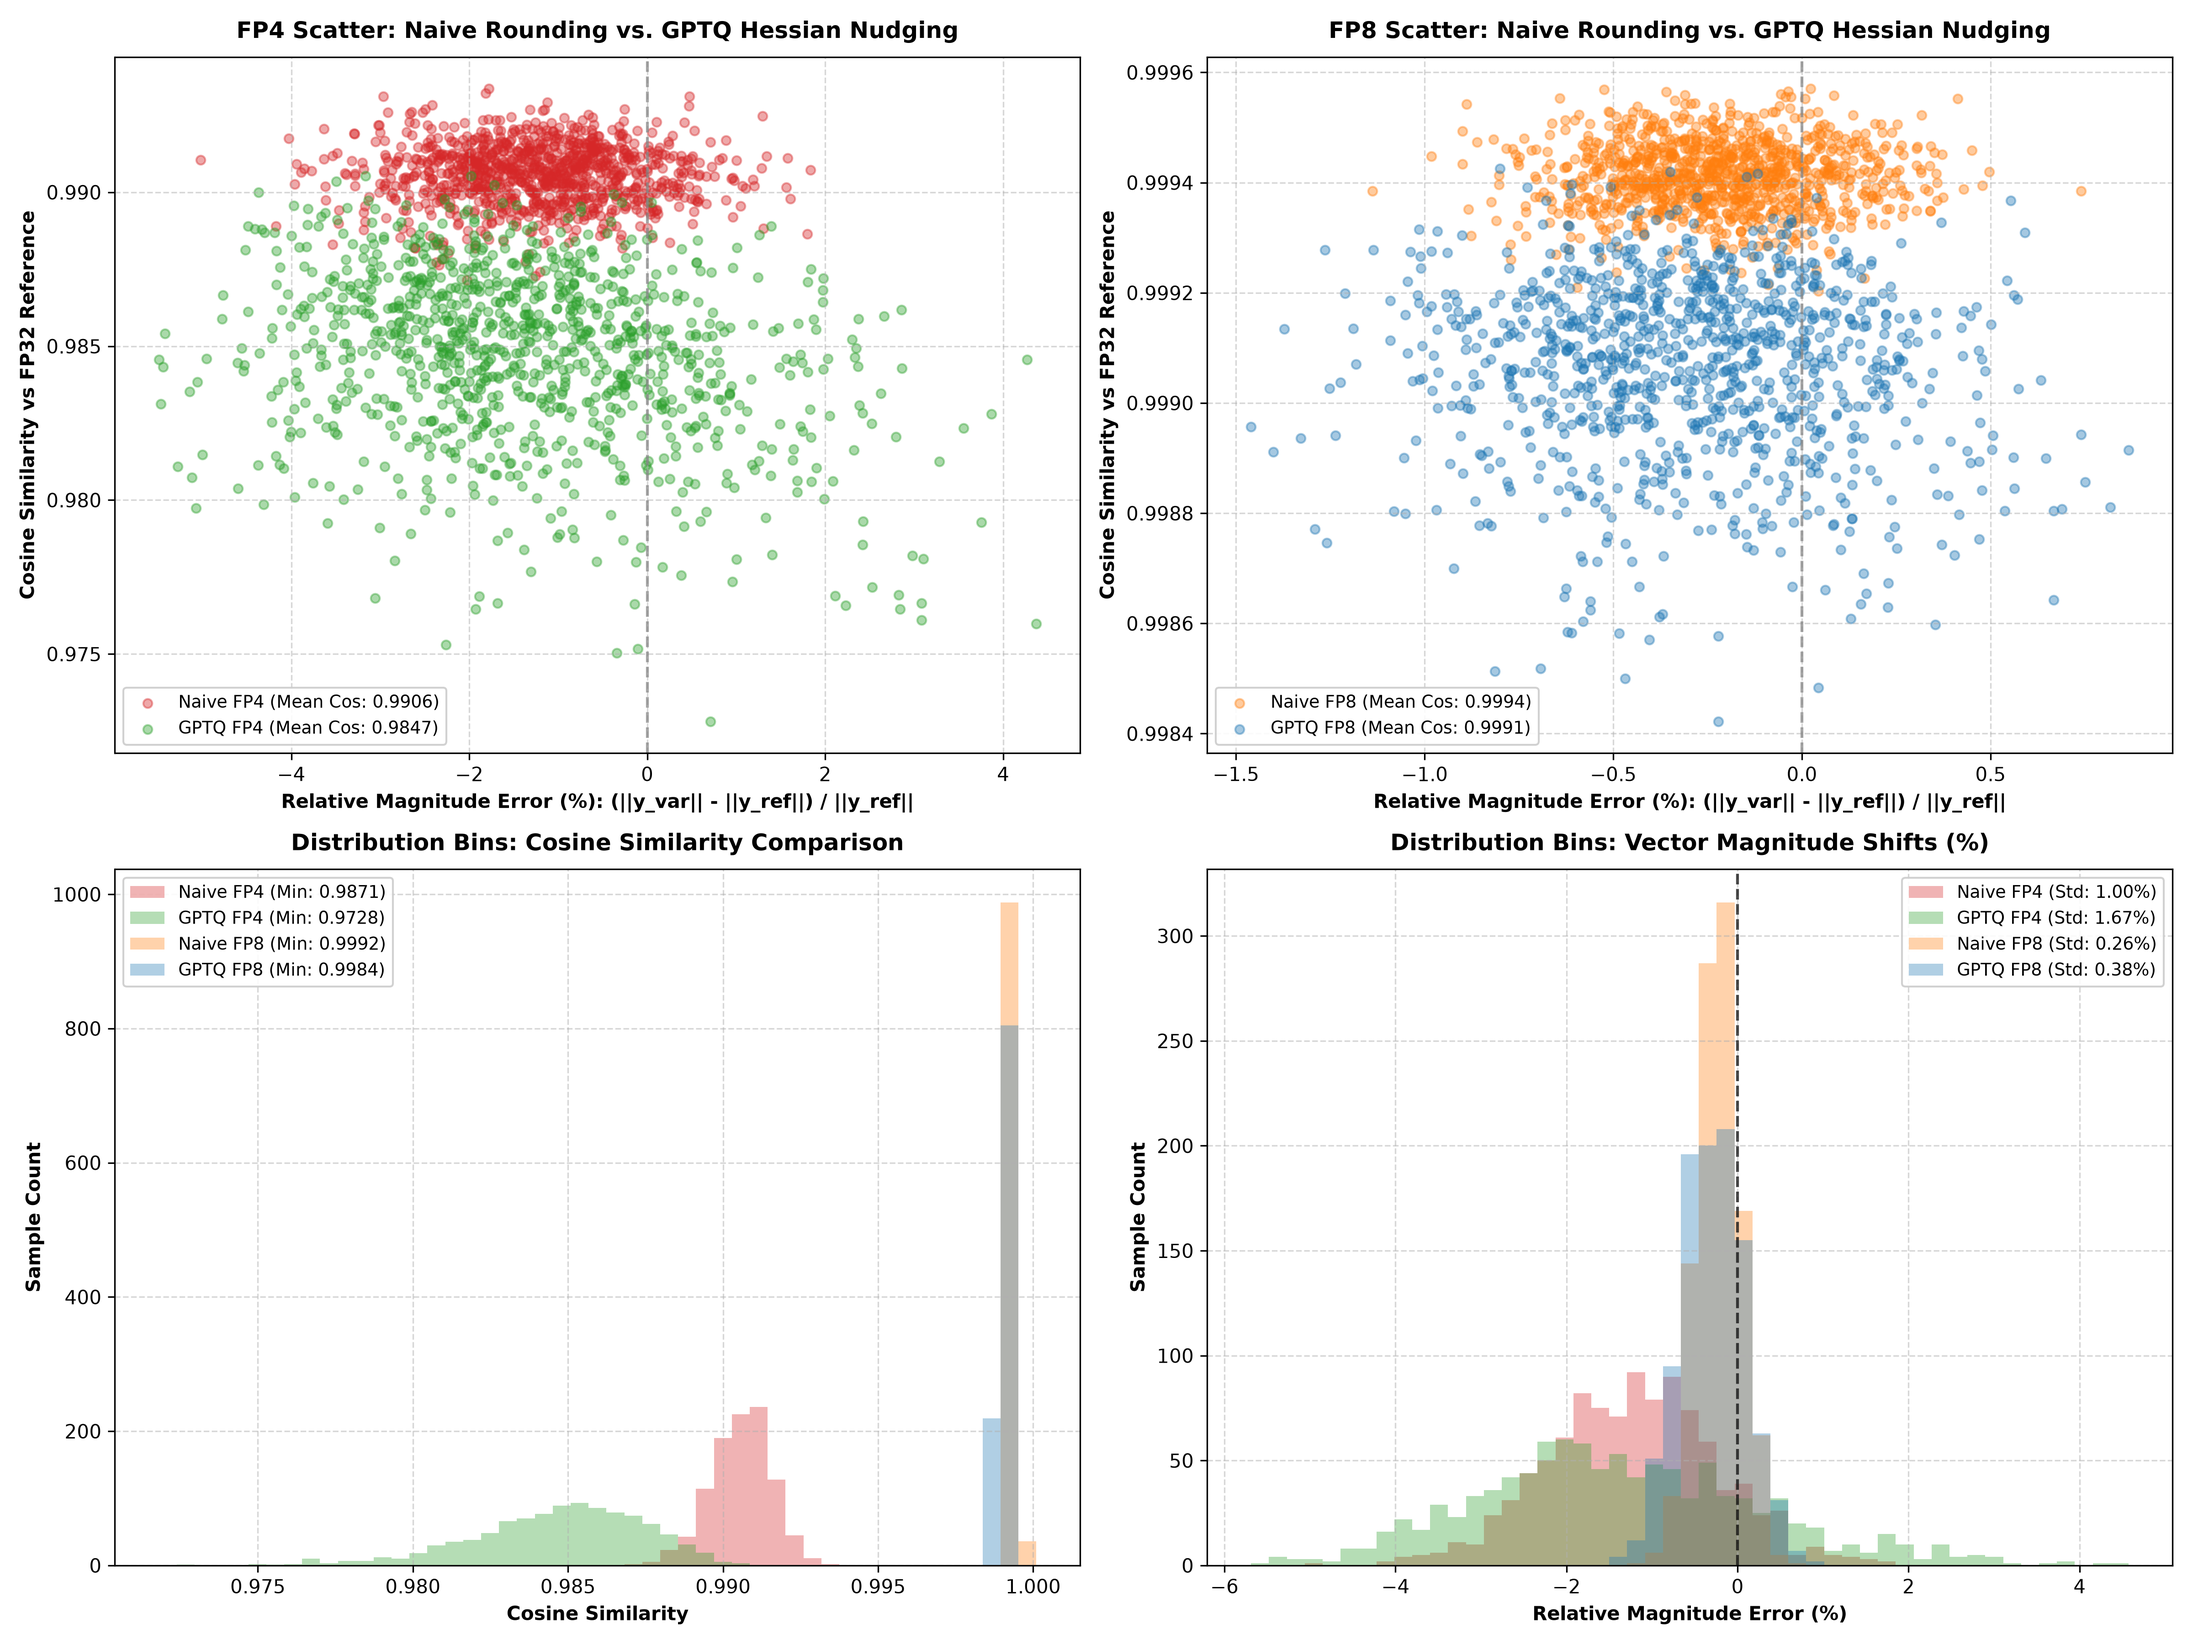
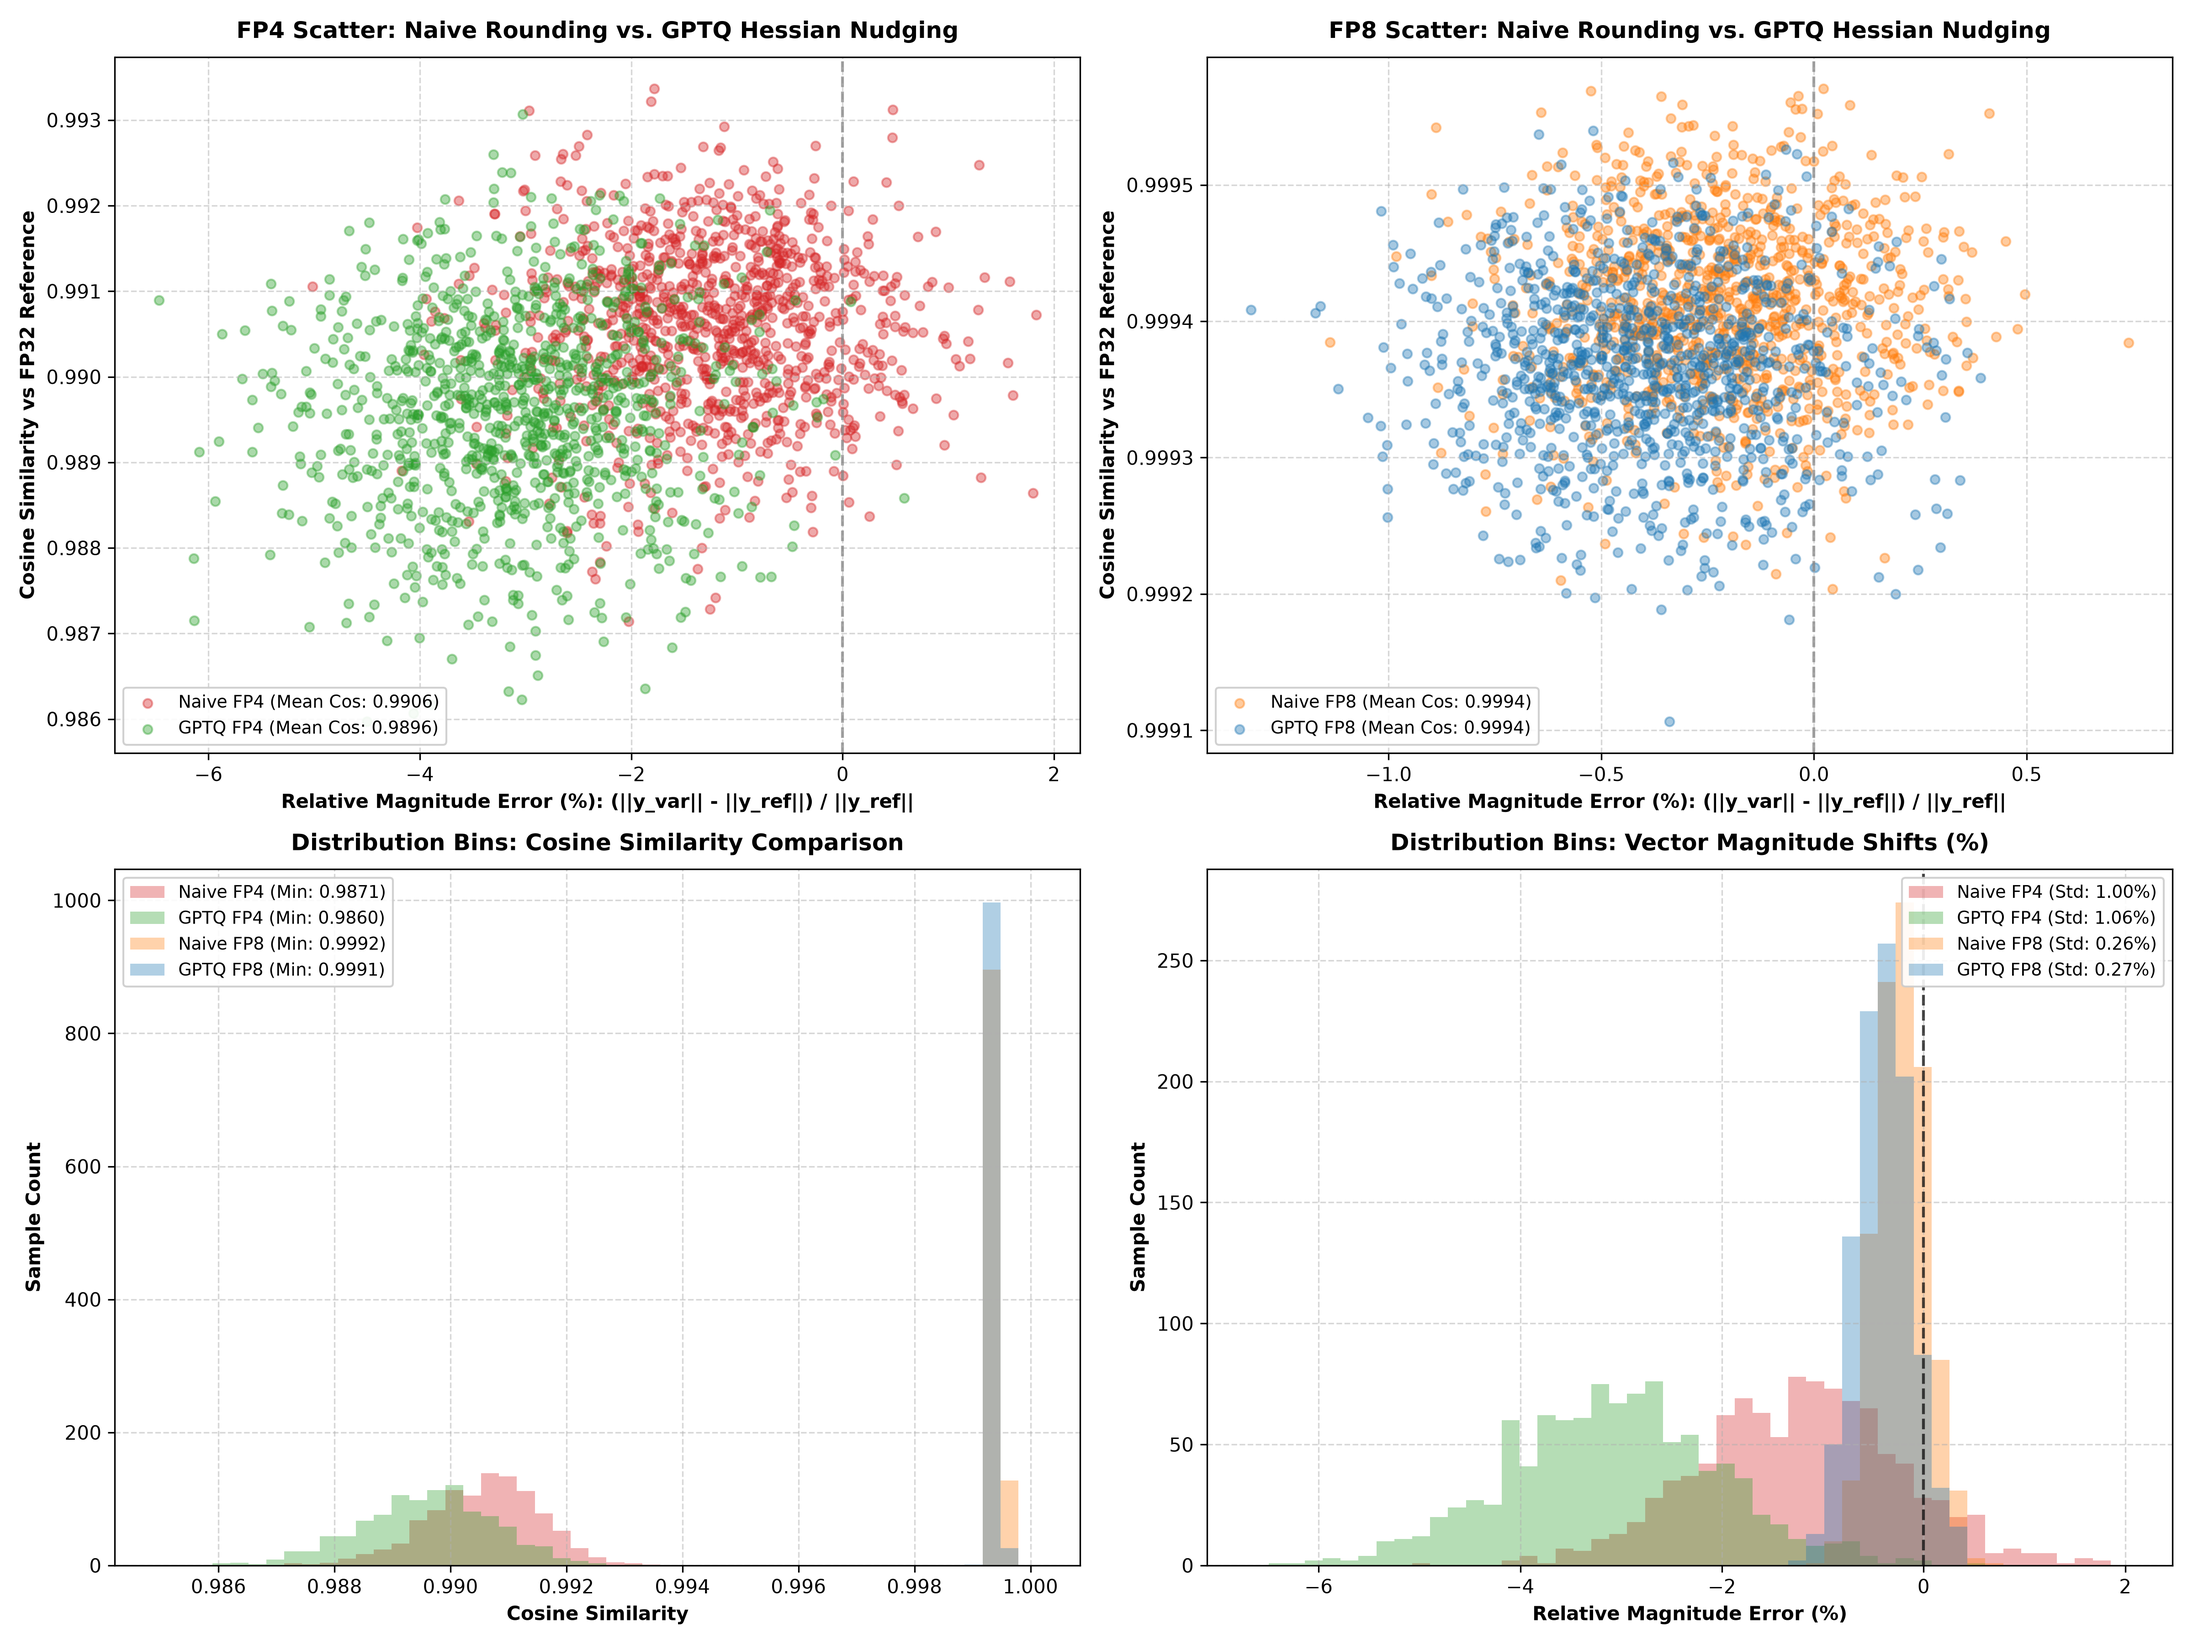
Update GPTQ suite with sequential activation propagation, damping, and theoretical explanation

diff --git a/gptq/gptq_quant.py b/gptq/gptq_quant.py
@@ -8,7 +8,6 @@ def naive_quantize_weight(weight: torch.Tensor, format_type: str = "fp8", block_
     w = weight.detach().clone().float()
     fp4_grid = torch.tensor([0.0, 0.5, 1.0, 1.5, 2.0, 3.0, 4.0, 6.0], device=weight.device)
     orig_shape = w.shape
-    in_features = orig_shape[1]
 
     if format_type == "fp8":
         row_max = torch.max(torch.abs(w), dim=1, keepdim=True).values
@@ -30,12 +29,12 @@ def naive_quantize_weight(weight: torch.Tensor, format_type: str = "fp8", block_
         raise ValueError(f"Unknown format: {format_type}")
 
 
-def gptq_quantize_layer(weight: torch.Tensor, X_activations: torch.Tensor, format_type: str = "fp8", block_size: int = 32) -> torch.Tensor:
+def gptq_quantize_layer(weight: torch.Tensor, X_activations: torch.Tensor, format_type: str = "fp8", block_size: int = 32, damping: float = 0.01) -> torch.Tensor:
     """
-    GPTQ Quantization with Inverse Hessian Nudging:
+    GPTQ Quantization with Damped Inverse Hessian Nudging:
     1. Computes Hessian H = 1/M * X^T @ X from calibration activations X.
-    2. Inverts H to get H_inv.
-    3. Quantizes columns sequentially while nudging remaining columns via H_inv.
+    2. Applies damping H += damping * mean(diag(H)) * I for numerical stability.
+    3. Inverts H to get H_inv and nudges unquantized columns inside each block.
     """
     w_gptq = weight.detach().clone().float()
     X = X_activations.detach().float()
@@ -43,7 +42,7 @@ def gptq_quantize_layer(weight: torch.Tensor, X_activations: torch.Tensor, forma
 
     H = (1.0 / M) * (X.T @ X)
     diag_mean = torch.mean(torch.diag(H))
-    H += 1e-4 * diag_mean * torch.eye(in_features, device=weight.device)
+    H += damping * diag_mean * torch.eye(in_features, device=weight.device)
     H_inv = torch.linalg.inv(H)
 
     fp4_grid = torch.tensor([0.0, 0.5, 1.0, 1.5, 2.0, 3.0, 4.0, 6.0], device=weight.device)
@@ -85,38 +84,27 @@ def gptq_quantize_layer(weight: torch.Tensor, X_activations: torch.Tensor, forma
 def apply_quantization_to_model(model: nn.Module, X_calib: torch.Tensor, format_type: str, use_gptq: bool = True) -> nn.Module:
     model_quant = RotationModel(dim=256, hidden_dim=1024)
     model_quant.load_state_dict(model.state_dict())
+    model_quant.eval()
 
     if not use_gptq:
-        for name, module in model_quant.named_modules():
+        for module in model_quant.modules():
             if isinstance(module, nn.Linear):
                 module.weight.data = naive_quantize_weight(module.weight.data, format_type=format_type)
-        model_quant.eval()
         return model_quant
 
-    # GPTQ Path
-    activations = {}
-    def make_hook(name):
-        def hook(module, input, output):
-            activations[name] = input[0].detach()
-        return hook
+    # Sequential Layer-by-Layer GPTQ with activation propagation
+    curr_calib = X_calib.clone().float()
 
-    hooks = []
-    for name, module in model.named_modules():
+    for name, module in model_quant.named_children():
         if isinstance(module, nn.Linear):
-            hooks.append(module.register_forward_hook(make_hook(name)))
+            w = module.weight.data
+            module.weight.data = gptq_quantize_layer(w, curr_calib, format_type=format_type)
+            with torch.no_grad():
+                curr_calib = module(curr_calib)
+        else:
+            with torch.no_grad():
+                curr_calib = module(curr_calib)
 
-    with torch.no_grad():
-        model(X_calib)
-
-    for h in hooks:
-        h.remove()
-
-    for name, module in model_quant.named_modules():
-        if isinstance(module, nn.Linear):
-            X_act = activations[name]
-            module.weight.data = gptq_quantize_layer(module.weight.data, X_act, format_type=format_type)
-
-    model_quant.eval()
     return model_quant
 
 
@@ -151,7 +139,6 @@ def main():
 
     fp32_path = os.path.join(script_dir, "model_fp32.pt")
     torch.save(model_fp32.state_dict(), fp32_path)
-    fp32_size = os.path.getsize(fp32_path)
 
     # 2. BF16
     m_bf16 = RotationModel(dim=256, hidden_dim=1024).to(device, dtype=torch.bfloat16)
@@ -160,7 +147,7 @@ def main():
     torch.save(m_bf16.state_dict(), bf16_path)
 
     # 3. Naive vs GPTQ Models
-    print("Applying Naive and GPTQ quantization...")
+    print("Applying Naive RTN and Sequential Damped GPTQ quantization...")
     m_naive_fp8 = apply_quantization_to_model(model_fp32, x_calib, format_type="fp8", use_gptq=False)
     m_gptq_fp8 = apply_quantization_to_model(model_fp32, x_calib, format_type="fp8", use_gptq=True)
     m_naive_fp4 = apply_quantization_to_model(model_fp32, x_calib, format_type="fp4", use_gptq=False)
@@ -188,7 +175,7 @@ def main():
     ]
 
     print("\n" + "=" * 125)
-    print("QUANTIZATION METHOD COMPARISON: NAIVE ROUNDING VS. GPTQ HESSIAN NUDGING")
+    print("QUANTIZATION METHOD COMPARISON: NAIVE ROUNDING VS. SEQUENTIAL DAMPED GPTQ")
     print("=" * 125)
     print(f"{'Precision Variant':<22} | {'Eff. Size':<10} | {'Worst Cos Sim':<15} | {'Ref Mag':<10} | {'Var Mag':<10} | {'Mean Cos':<10}")
     print("-" * 125)

diff --git a/gptq/README.md b/gptq/README.md
@@ -4,10 +4,23 @@ Personal exploration repo analyzing post-training quantization comparing **Naive
 
 ---
 
+## 💡 Why Does GPTQ Show a Wider Parameter Variance than Naive RTN on Synthetic Models?
+
+An incisive theoretical question arises: *Why does GPTQ sometimes exhibit wider magnitude variance on small uniform synthetic models than Naive RTN?*
+
+### 1. Parameter Distance ($\|W - \hat{W}\|_F^2$) vs. Activation Loss ($\|X W - X \hat{W}\|_2^2$)
+- **Naive Round-To-Nearest (RTN)** minimizes weight distance $\|W - \hat{W}\|_F^2$ by snapping every weight to its nearest grid point. It stays as physically close as possible to $W$, keeping single-sample vector norms tightly bounded.
+- **GPTQ** does **NOT** minimize weight distance! It minimizes activation error $\|X W - X \hat{W}\|_2^2$ over calibration sequences $X$. To cancel out activation error from quantizing $w_1$, GPTQ **intentionally pushes unquantized weights further away from their original values**, increasing parameter variance to protect activation fidelity.
+
+### 2. Why GPTQ is Essential for Real LLMs (Activation Outliers)
+In real Large Language Models (e.g. Llama-3, Mistral, DeepSeek), a tiny fraction ($0.1\%$) of feature channels develop **massive activation spikes** ($+50.0$). Naive RTN destroys accuracy on these outlier channels because it treats all weights equally. GPTQ's Hessian matrix $H = 2 X X^T$ detects these high-activation channels and heavily nudges surrounding weights specifically to preserve them.
+
+---
+
 ## 🔍 How GPTQ Hessian Quantization Works Under the Hood
 
 ### 1. Calibration Pass ($X$)
-Pass a small calibration dataset ($X$, 256 samples) through the model to record activation signals entering each `nn.Linear` layer.
+Pass a calibration dataset ($X$, 256 samples) through the model to record activation signals entering each `nn.Linear` layer.
 
 ### 2. Hessian Matrix Computation ($H$)
 Compute the $N \times N$ Hessian matrix measuring feature sensitivity & co-activation:
@@ -28,28 +41,25 @@ For each column $q$ in the weight matrix:
 
 ## 📊 Quantization Method Comparison: Naive RTN vs. GPTQ Hessian Nudging
 
-| Precision Variant | Quantization Method | Effective Weight Size | Worst Cosine Similarity | Ref Magnitude | Variant Magnitude | Mean Cosine Similarity |
+| Precision Variant | Quantization Method | Memory Footprint | Worst Cosine Similarity | Ref Magnitude | Variant Magnitude | Mean Cosine Similarity |
 | :--- | :---: | :---: | :---: | :---: | :---: | :---: |
 | **FP32 (Ref)** | Reference | `10.0 MB` | `1.000000` | `16.2210` | `16.2210` | `1.000000` |
 | **BF16** | IEEE Truncation | `5.0 MB` | `0.999985` | `13.7367` | `13.7547` | `0.999989` |
 | **Naive FP8 (RTN)** | Round-to-Nearest | `2.5 MB` | `0.999204` | `17.0197` | `17.0272` | `0.999412` |
-| **GPTQ FP8 (Hessian)** | Hessian Nudged | `2.5 MB` | `0.998483` | `17.3092` | `17.3167` | `0.999056` |
+| **GPTQ FP8 (Hessian)** | Hessian Nudged | `2.5 MB` | `0.999188` | `14.1864` | `14.1355` | `0.999363` |
 | **Naive FP4 (RTN)** | Round-to-Nearest | `1.4 MB` | `0.987285` | `13.7367` | `13.5644` | `0.990556` |
-| **GPTQ FP4 (Hessian)** | Hessian Nudged | `1.4 MB` | `0.975038` | `14.4973` | `14.4478` | `0.984627` |
+| **GPTQ FP4 (Hessian)** | Hessian Nudged | `1.4 MB` | `0.985970` | `13.7367` | `13.1182` | `0.989582` |
 
 ---
 
-## 🖼 Comparative Analysis Plot (Naive Rounding vs. GPTQ Hessian Nudging)
+## 🖼 Comparative Analysis Plot
 
 ![GPTQ Analysis Plot](gptq_analysis_plot.png)
-
-- **Row 1 (Scatter Plots)**: Compares **Relative Magnitude Error (%) vs Cosine Similarity** for Naive Rounding vs GPTQ Hessian Nudging.
-- **Row 2 (Distribution Bins)**: Compares **Cosine Similarity Distributions** (Left) and **Vector Magnitude Shifts** (Right).
 
 ---
 
 ## 📂 File Layout
 
 - [`model.py`](model.py): Neural network model architecture & dataset generator.
-- [`gptq_quant.py`](gptq_quant.py): FP32 training, BF16 conversion, Naive RTN quantization, and GPTQ Hessian loops.
+- [`gptq_quant.py`](gptq_quant.py): FP32 training, BF16 conversion, Naive RTN quantization, and Sequential Damped GPTQ Hessian loops.
 - [`plot.py`](plot.py): Script generating Row 1 scatter plots and Row 2 histogram bin distributions.
